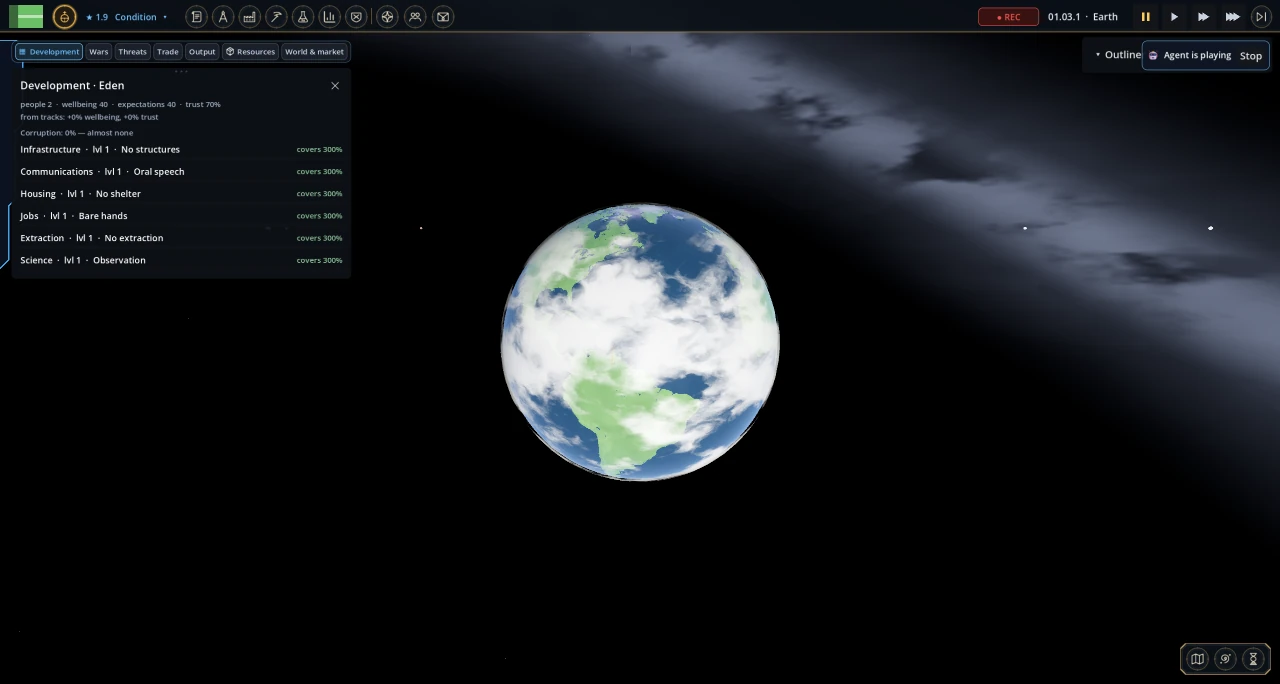
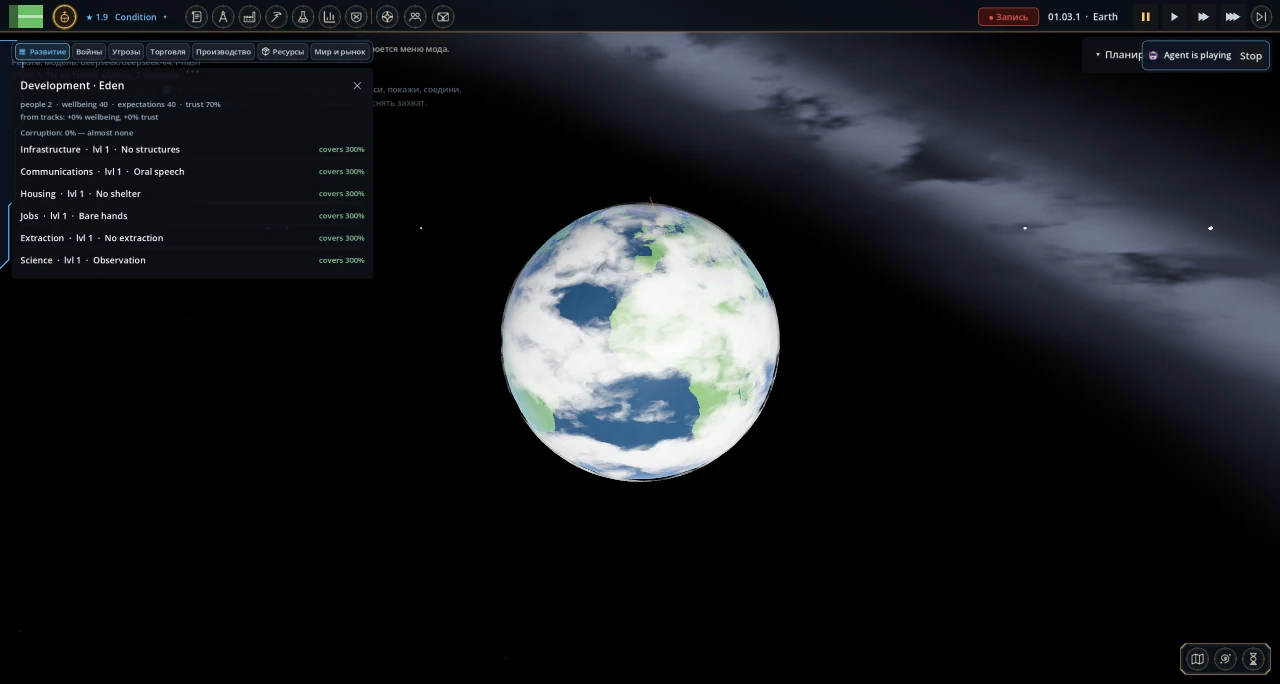
Use native game localization with English fallback and verify Pax Universe 0.31.5

diff --git a/README.md b/README.md
@@ -21,7 +21,7 @@
 
 ## Установка и начало игры
 
-Версия мода: **1.1.0**. Проверенная версия игры: **0.31.4**.
+Версия мода: **1.1.1**. Проверенная версия игры: **0.31.5**.
 
 Требуется стандартный мод **«Солнечная система» (`solar_system`)**, поставляемый с игрой.
 
@@ -32,7 +32,7 @@
 
 ### Вручную из GitHub
 
-1. Скачайте `adam_eve-1.1.0.zip` из раздела **Releases** и закройте игру.
+1. Скачайте `adam_eve-1.1.1.zip` из раздела **Releases** и закройте игру.
 2. Откройте **Лаунчер → Моды → Папка модов** и поместите туда ZIP целиком. Распаковывать архив не нужно. На Windows пользовательская папка обычно находится в `%APPDATA%\Pax Universe\mods`.
 3. Запустите игру и включите **«Адам и Ева — с нуля»** и **«Солнечная система»** в разделе **Моды**.
 
@@ -53,11 +53,11 @@
 
 **Adam and Eve — From Nothing** is a Pax Universe scenario starting with exactly two adults, no supplies or infrastructure, and a pristine Earth with wildlife. Guide their search for water, food and shelter, speak with both characters, and develop practical skills through your orders. The player is a guiding role, not a third inhabitant. Starting energy, grid capacity and load are all zero.
 
-Tested with **Pax Universe 0.31.4**. Install **Adam and Eve — From Nothing** from the launcher's official **Workshop**, or download the release ZIP from GitHub. Requires the game's standard **Solar System (`solar_system`)** mod. For manual installation, place the release ZIP in the game's user `mods` folder without extracting it, enable both mods, then start a new game with **«Адам и Ева — с нуля» → «Эдем»** and select the head-of-state role. Continuing a scenario save preserves its progress and resources. The banner is an illustration, not a gameplay screenshot.
+Tested with **Pax Universe 0.31.5**. Install **Adam and Eve — From Nothing** from the launcher's official **Workshop**, or download the release ZIP from GitHub. Requires the game's standard **Solar System (`solar_system`)** mod. For manual installation, place the release ZIP in the game's user `mods` folder without extracting it, enable both mods, then start a new game with **«Адам и Ева — с нуля» → «Эдем»** and select the head-of-state role. Continuing a scenario save preserves its progress and resources. The banner is an illustration, not a gameplay screenshot.
 
 ## Языки / Languages
 
-Русский и английский. Язык интерфейса мода следует языку игры и меняется вместе с ним; отдельного переключателя нет. Текст переписки, пользовательские названия и введённые данные не переводятся.
+Русский и английский. Язык интерфейса мода следует языку игры и меняется вместе с ним; отдельного переключателя нет. Для других языков игры используется английский. Текст переписки, пользовательские названия и введённые данные не переводятся.
 
 Russian and English. The mod follows the game language, including open windows. There is no separate language switch. Conversation text, custom names and entered data remain unchanged.
 

diff --git a/docs/README.en.md b/docs/README.en.md
@@ -1,12 +1,12 @@
 # Adam and Eve — From Nothing
 
-A scenario for **Pax Universe 0.31.4**. Humanity begins with exactly two adults in a pristine world. Guide their search for water, food and shelter, talk with both characters, and build knowledge through practical actions.
+A scenario for **Pax Universe 0.31.5**. Humanity begins with exactly two adults in a pristine world. Guide their search for water, food and shelter, talk with both characters, and build knowledge through practical actions.
 
 [Русское описание](../README.md)
 
 ## Installation and starting
 
-Install **Adam and Eve — From Nothing** from the launcher's official Workshop and enable it under Mods. Alternatively, close the game and place `adam_eve-1.1.0.zip` from GitHub Releases into the user mods folder without extracting it. Open Launcher → Mods → Mods folder to locate it; the usual Windows location is `%APPDATA%\Pax Universe\mods`.
+Install **Adam and Eve — From Nothing** from the launcher's official Workshop and enable it under Mods. Alternatively, close the game and place `adam_eve-1.1.1.zip` from GitHub Releases into the user mods folder without extracting it. Open Launcher → Mods → Mods folder to locate it; the usual Windows location is `%APPDATA%\Pax Universe\mods`.
 
 The game's standard **Solar System (`solar_system`)** mod is required. Enable both mods, approve code execution through the normal game prompt if requested, then start a new campaign with **Адам и Ева — с нуля → Эдем** and select the head-of-state role. These are the stable scenario-folder and faction identifiers. Displayed scenario text follows the game language.
 
@@ -29,3 +29,5 @@ The assistant interprets interface terms at the scale of a tiny community: repor
 Full Russian and English scenario texts follow the game's language. The introduction, character descriptions and all **360 development levels with descriptions** are translated. Object identities and save references remain stable; player-created text is not rewritten.
 
 Scenario changes apply only to worlds carrying this scenario's marker. Other campaigns are not reset. The package includes the scenario data and a small runtime entry at `src/main.gd`. The banner is an illustration, not a gameplay screenshot.
+
+The interface follows the game language: Russian for RU, English for EN and all other game languages.
